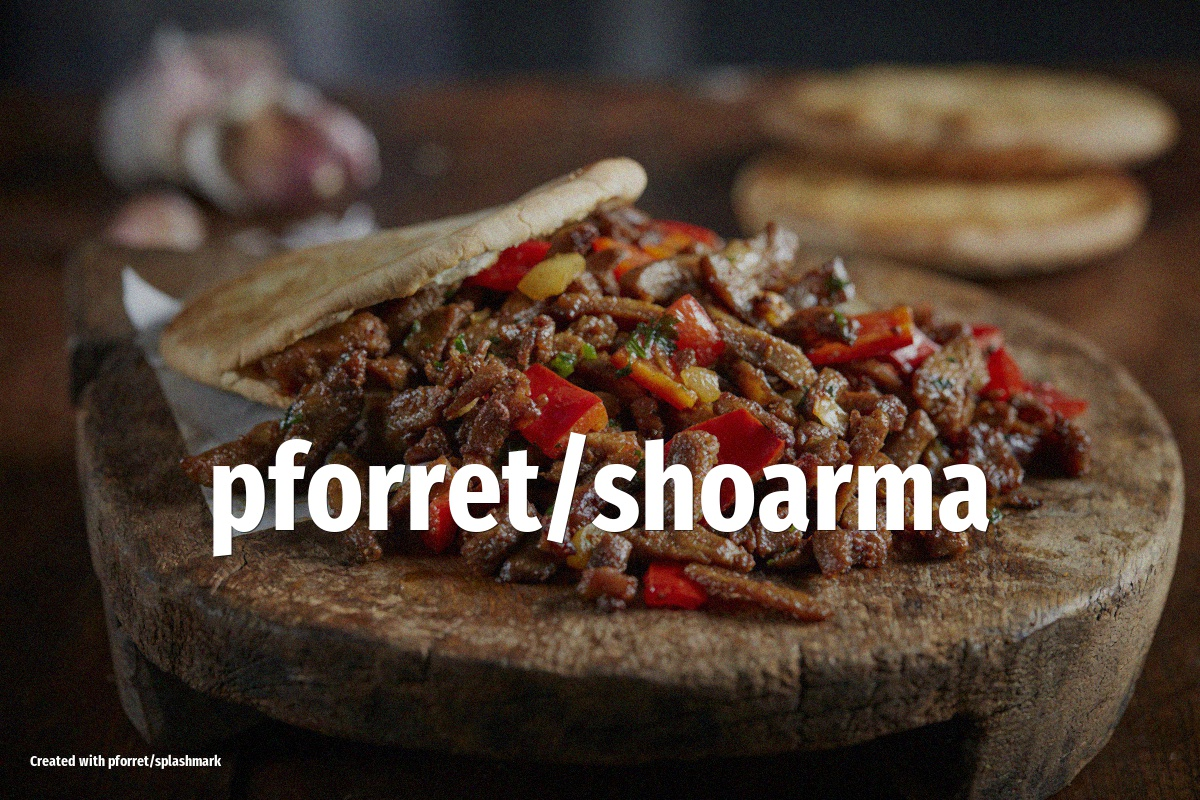
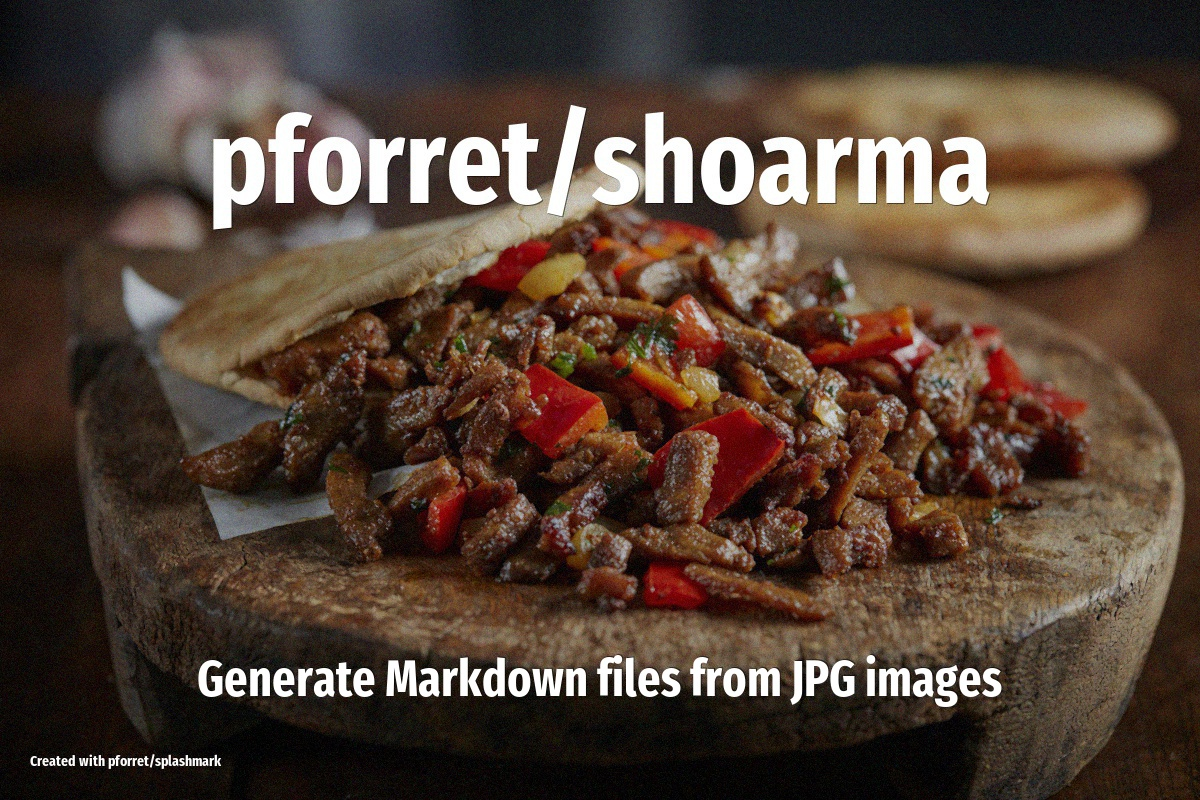
first working version

Changed region(s): [[0.1542, 0.5312, 0.8325, 0.6875], [0.1542, 0.125, 0.8325, 0.2812], [0.1542, 0.8125, 0.8325, 0.9062]]

diff --git a/templates/post.md b/templates/post.md
@@ -1,0 +1,21 @@
+---
+title: {exif_title}
+layout: post
+permalink: /{year}/{country}/{slug}/
+image: {image_path}
+md_path: {year}/{country}/{fileslug}.md
+categories:
+- {year}
+- {country}
+tags:
+{keyword_bullets}
+---
+
+# {exif_title}
+
+![{exif_title}]({image_path})
+
+{exif_caption}
+
+Country: {country}
+Date: {date}
